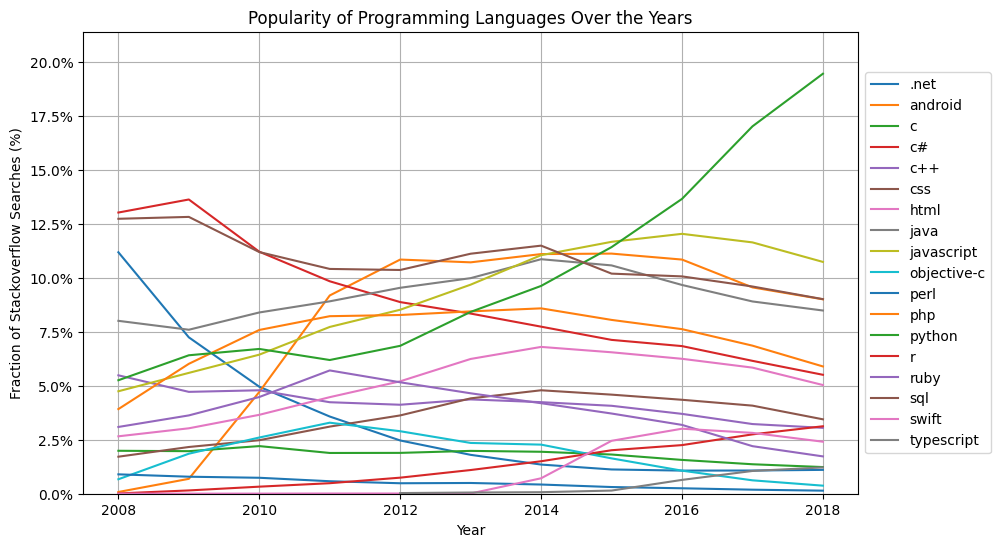
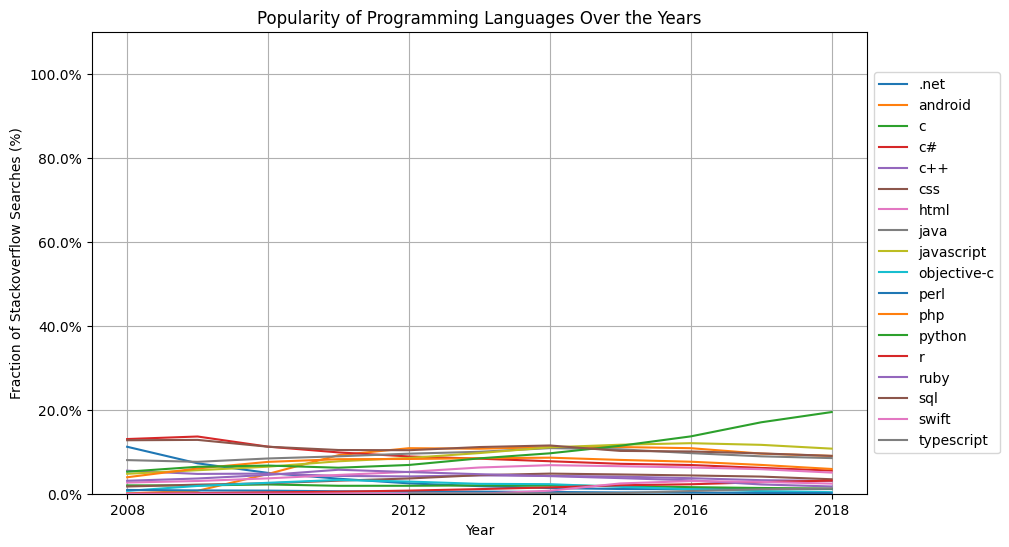
Added animation - TODO: fix axis setting in update(frame) function

diff --git a/cPOP/src/plot.py b/cPOP/src/plot.py
@@ -1,5 +1,25 @@
 import matplotlib.pyplot as plt
+from matplotlib.animation import FuncAnimation
+import numpy as np
 from cPOP.constants import Columns, PATH_TO_PLOT_FOLDER
+
+def set_ax_parameters(ax, percent_formatting = True):
+    # Set labels and title
+    ax.set_xlabel('Year')
+    ax.set_ylabel('Fraction of Stackoverflow Searches (%)')
+    ax.set_title('Popularity of Programming Languages Over the Years')
+
+    # Set y axis limits
+    ax.set_ylim(0, 1.1)
+
+    # Format y-axis labels as percentage if true
+    if percent_formatting:
+        ax.yaxis.set_major_formatter(plt.FuncFormatter(lambda x, _: f'{x:.1%}'))
+    
+    # Add grid lines
+    ax.grid(True)
+    ax.legend(loc='center left', bbox_to_anchor=(1, 0.5))
+
 
 def plot_tag_group_fraction(df, output_path="output.png"):
     # Filter out rows where tag_group is 'other'
@@ -7,7 +27,6 @@ def plot_tag_group_fraction(df, output_path="output.png"):
     
     # Group by year and tag_group, and calculate the fraction
     grouped_df = df_filtered.groupby([Columns.YEAR, Columns.TAG_GROUP]).apply(lambda x: x[Columns.COUNT].sum() / x[Columns.YEAR_COUNT].iloc[0]).reset_index(name=Columns.FRACTION)
-
     
     # Create a new figure and axis
     fig, ax = plt.subplots(figsize=(10, 6))
@@ -15,21 +34,91 @@ def plot_tag_group_fraction(df, output_path="output.png"):
     for tag_group, group_data in grouped_df.groupby(Columns.TAG_GROUP):
         plt.plot(group_data[Columns.YEAR], group_data[Columns.FRACTION], label=tag_group)
 
-    # Set labels and title
-    ax.set_xlabel('Year')
-    ax.set_ylabel('Fraction of Stackoverflow Searches (%)')
-    ax.set_title('Popularity of Programming Languages Over the Years')
-
-    # Set y axis limits
+     # Set y axis limits
     max_fraction = grouped_df['fraction'].max()
     ax.set_ylim(0, 1.1 * max_fraction)
 
-    # Format y-axis labels as percentage
-    ax.yaxis.set_major_formatter(plt.FuncFormatter(lambda x, _: f'{x:.1%}'))
-
-    # Add grid lines
-    ax.grid(True)
-    ax.legend(loc='center left', bbox_to_anchor=(1, 0.5))
+    set_ax_parameters(ax=ax, percent_formatting=True)
 
     # Save the plot as a .png file
     plt.savefig(PATH_TO_PLOT_FOLDER+"/"+output_path, bbox_inches='tight')
+
+
+def plot_animation(df, output_path):
+    # Filter out rows where tag_group is 'other'
+    df_filtered = df[df[Columns.TAG_GROUP] != 'other']
+    
+    # Group by year and tag_group, and calculate the fraction
+    grouped_df = df_filtered.groupby([Columns.YEAR, Columns.TAG_GROUP]).apply(lambda x: x[Columns.COUNT].sum() / x[Columns.YEAR_COUNT].iloc[0]).reset_index(name=Columns.FRACTION)
+    
+    # Create a new figure and axis
+    fig, ax = plt.subplots(figsize=(10, 6))
+
+    # Create a new figure and axis
+    fig, ax = plt.subplots(figsize=(10, 6))
+    ax.set_title(f'Programming Language Popularity Over Time')
+    ax.set_xlabel('Year')
+    ax.set_ylabel('Percentage')
+    ax.set_ylim(0, 1.1)
+    ax.grid(True)
+
+    # Create an empty dictionary to store line objects for each tag_group
+    lines = {}
+
+    def update(frame):
+        # Filter data for the current frame (year)
+        df_frame = grouped_df[grouped_df[Columns.YEAR] <= frame]
+        
+        # Clear the previous plot
+        ax.clear()
+
+        # Plot the data for each tag_group
+        for tag_group, data in df_frame.groupby(Columns.TAG_GROUP):
+            if tag_group not in lines:
+                # If line does not exist for tag_group, create a new line and store it in the dictionary
+                lines[tag_group], = ax.plot(data[Columns.YEAR], data[Columns.FRACTION], label=tag_group)
+            else:
+                # If line already exists, update the data
+                lines[tag_group].set_data(data[Columns.YEAR], data[Columns.FRACTION])
+
+        # Add legend
+        ax.legend()
+
+    # Create the animation
+    anim = FuncAnimation(fig, update, frames=sorted(df[Columns.YEAR].unique()), interval=1000, repeat=False)
+
+    # Save the animation as a GIF
+    anim.save(PATH_TO_PLOT_FOLDER+"/"+output_path, writer='imagemagick')
+
+
+def plot_tag_group_fraction_animated(df, output_path="output.gif"):
+    # Filter out rows where tag_group is 'other'
+    df_filtered = df[df[Columns.TAG_GROUP] != 'other']
+    
+    # Group by year and tag_group, and calculate the fraction
+    grouped_df = df_filtered.groupby([Columns.YEAR, Columns.TAG_GROUP]).apply(lambda x: x[Columns.COUNT].sum() / x[Columns.YEAR_COUNT].iloc[0]).reset_index(name=Columns.FRACTION)
+    
+    # Create a new figure and axis
+    fig, ax = plt.subplots(figsize=(10, 6))
+    lines = []
+
+    # Set y axis limits
+    max_fraction = grouped_df[Columns.FRACTION].max()
+    ax.set_ylim(0, 0.3)
+
+    set_ax_parameters(ax=ax, percent_formatting=True)
+
+    def update(frame):
+        ax.clear()
+        for tag_group, group_data in grouped_df.groupby(Columns.TAG_GROUP):
+            data = group_data[group_data[Columns.YEAR] <= frame]
+            line, = plt.plot(data[Columns.YEAR], data[Columns.FRACTION], label=tag_group)
+            lines.append(line)
+        
+        
+
+    # Create the animation
+    anim = FuncAnimation(fig, update, frames=sorted(df[Columns.YEAR].unique()), interval=1000, repeat=False)
+
+    # Save the animation as a GIF
+    anim.save(PATH_TO_PLOT_FOLDER+"/"+output_path, writer='imagemagick')

diff --git a/main.py b/main.py
@@ -1,6 +1,6 @@
 from cPOP.src.etl import read_data, calc_stats
 from cPOP.src.tags import make_tag_groups
-from cPOP.src.plot import plot_tag_group_fraction
+from cPOP.src.plot import plot_tag_group_fraction, plot_tag_group_fraction_animated
 from cPOP.constants import Columns
 
 print("Read data.")
@@ -11,3 +11,4 @@ print("Calc stats.")
 df = calc_stats(df)
 print("Plot.")
 plot_tag_group_fraction(df)
+plot_tag_group_fraction_animated(df,output_path="Output_Animation.gif")
